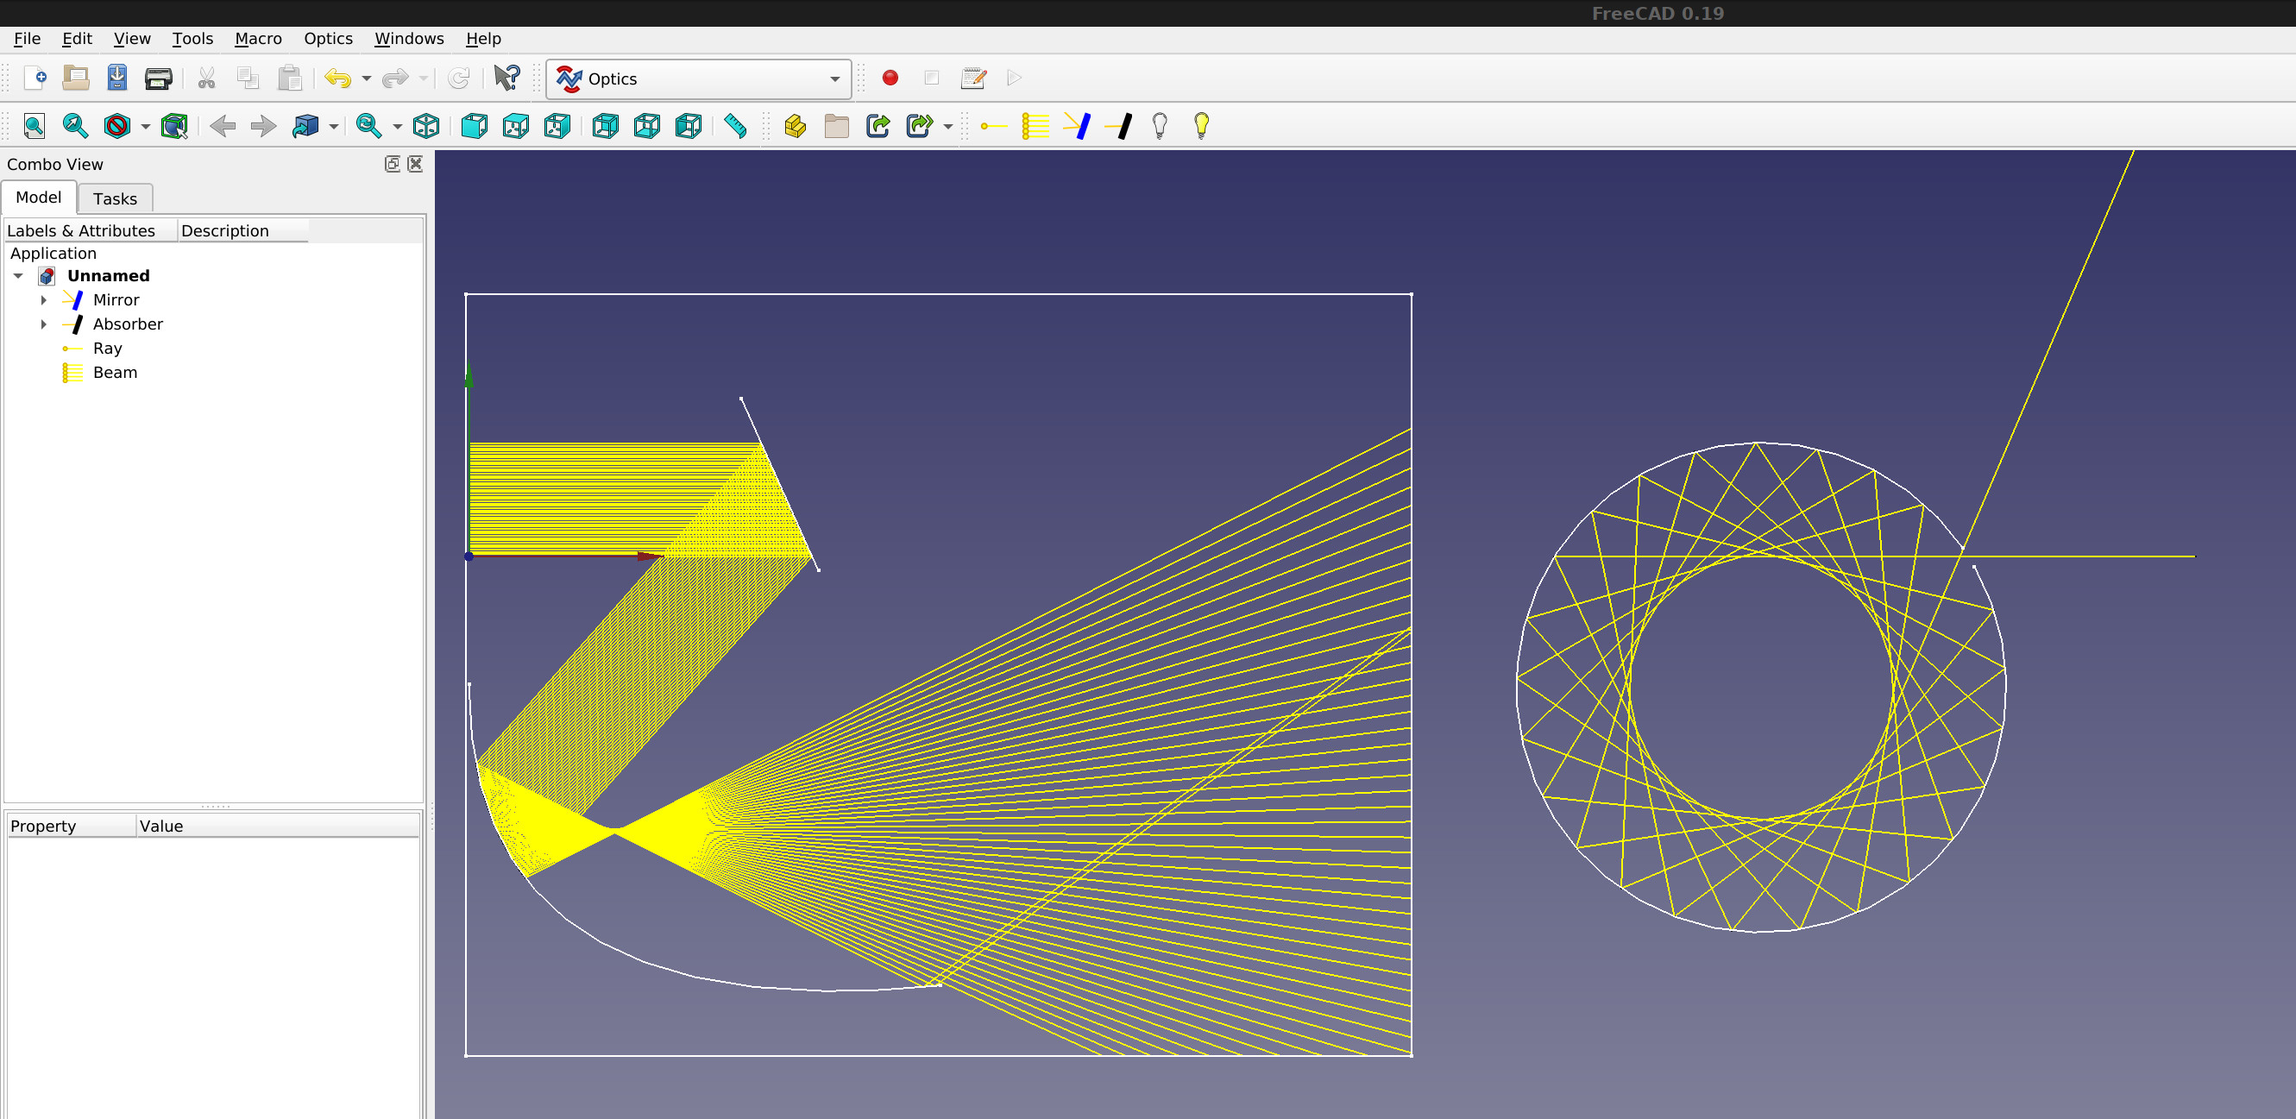
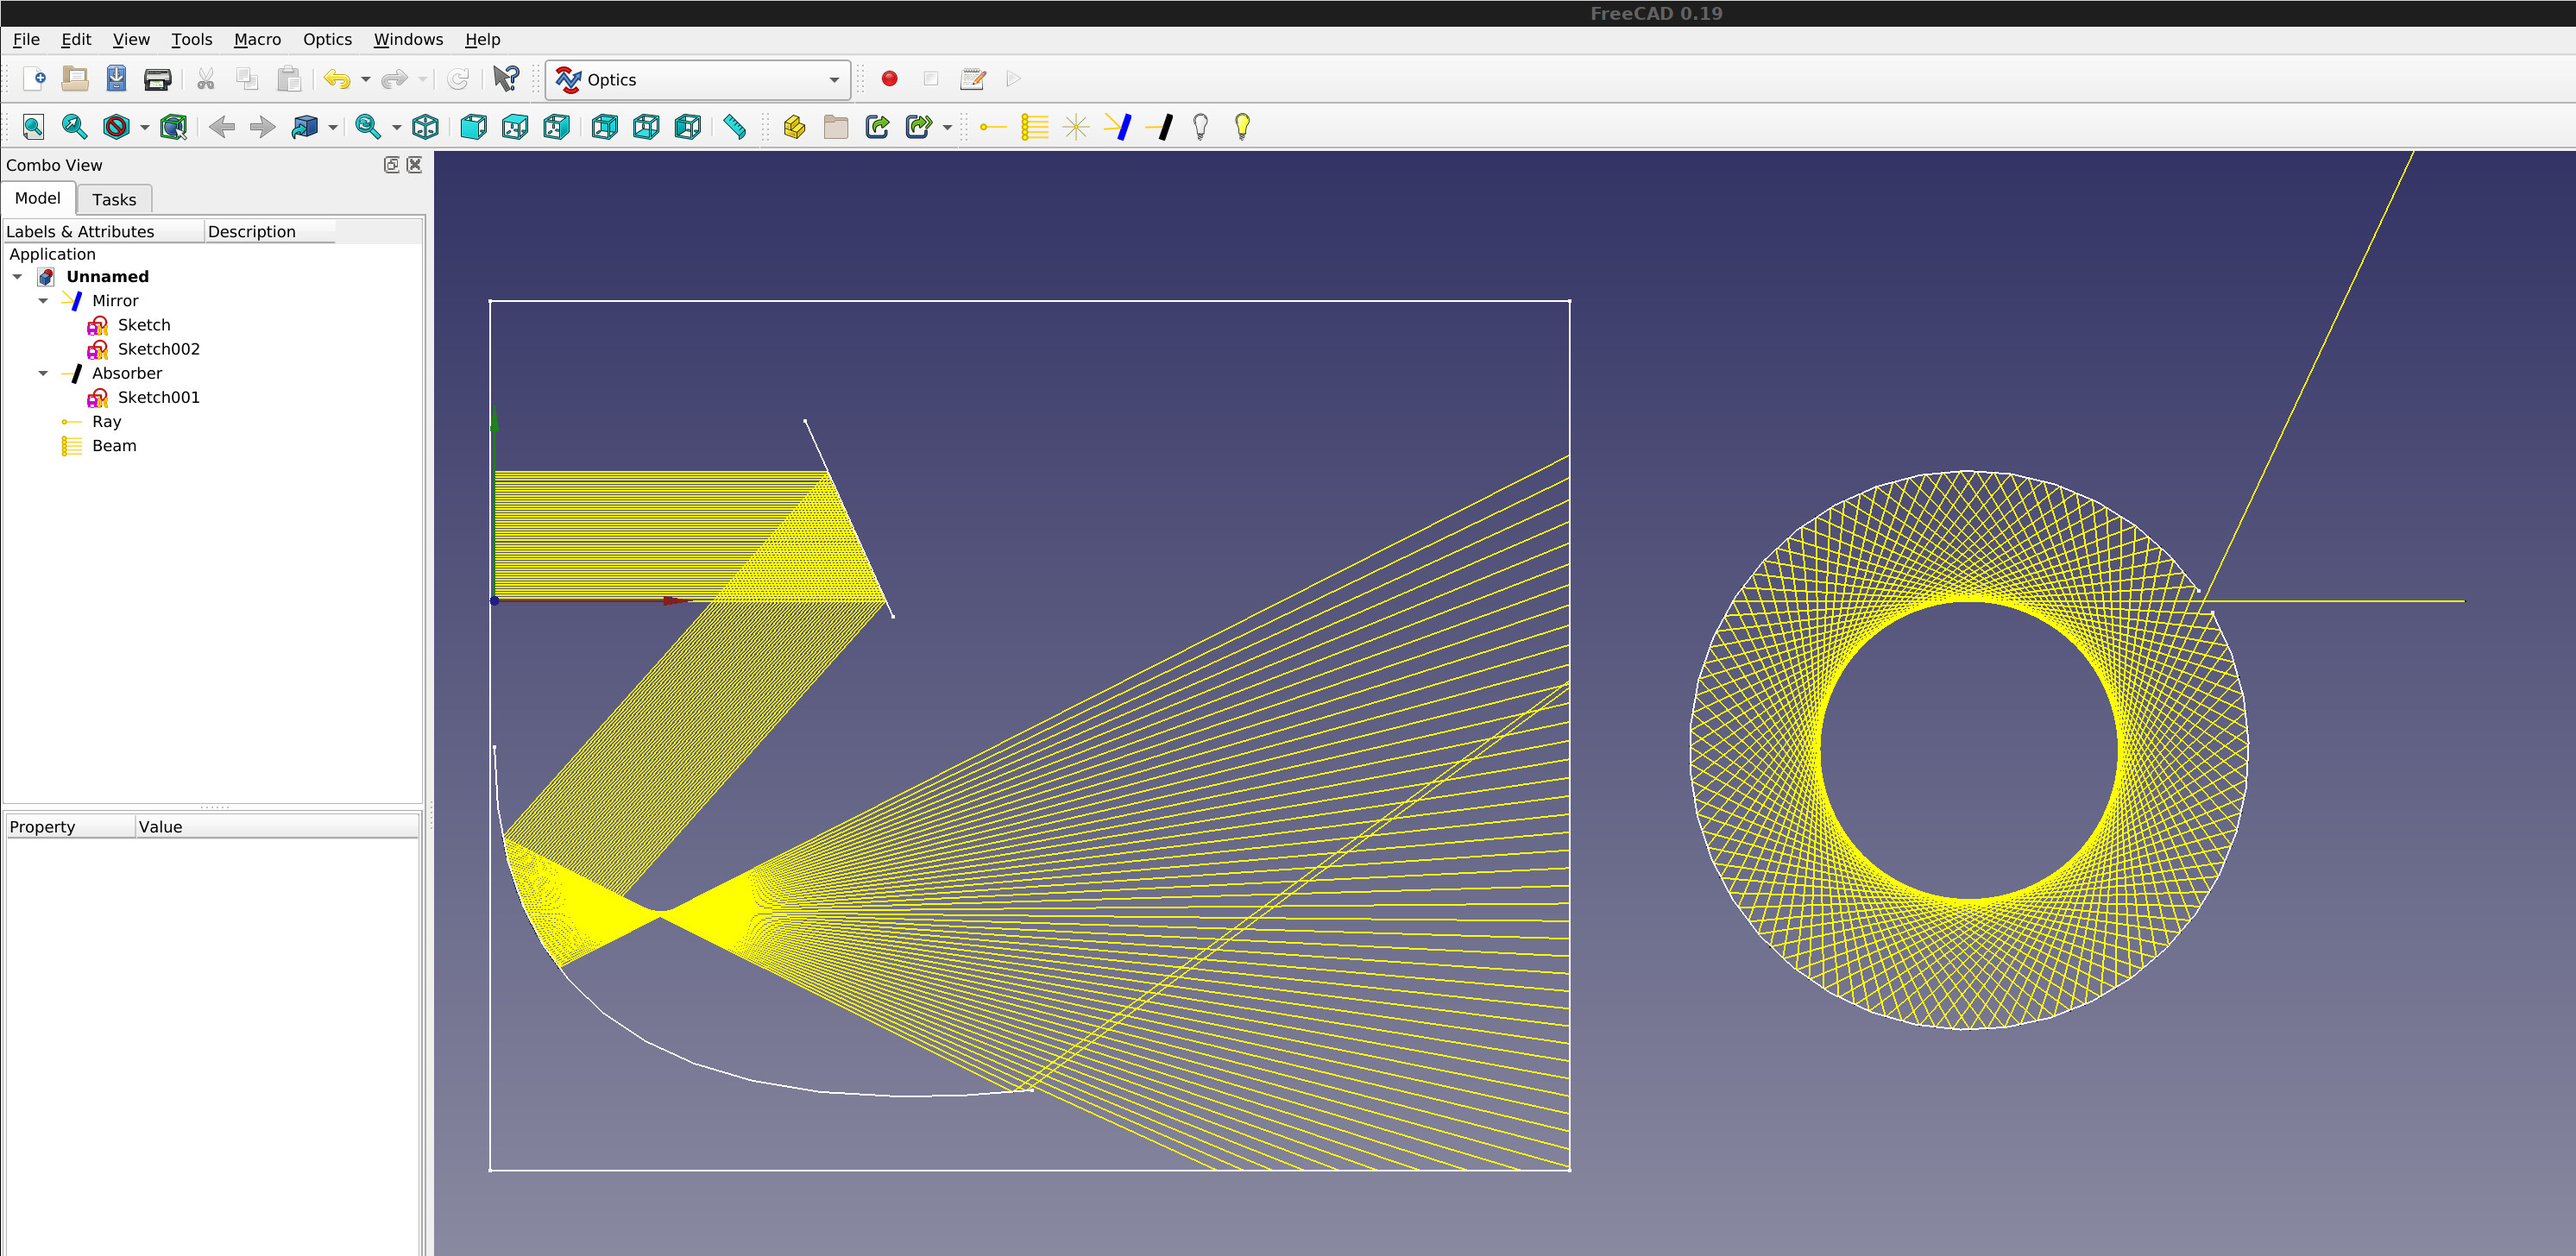
fixed accuracy problem

diff --git a/Ray.py b/Ray.py
@@ -158,13 +158,15 @@ class RayWorker:
                 self.iter = self.iter + 1
                 if self.iter > fp.MaxNumberRays: return
                 
-                if hasattr(nearest_part, 'Curve'):
-                    tangent = self.findTangent(nearest_part, neworigin)
+                if hasattr(nearest_part, 'Curve'):                    
+                    param = nearest_part.Curve.parameter(neworigin)     
+                    tangent = nearest_part.tangentAt(param)
                     newedge = shortline.mirror(neworigin, tangent)
                     vend = PointVec(newedge.Vertexes[0])
                     newline = Part.makeLine(neworigin, vend + (vend - neworigin) * INFINITY)
-                else:
-                    normal = self.findNormal(nearest_part, neworigin)
+                else:                    
+                    uv = nearest_part.Surface.parameter(neworigin)         
+                    normal = nearest_part.normalAt(uv[0], uv[1]) 
                     dB = PointVec(shortline.Vertexes[0]) - neworigin
                     dA = -dB + 2*normal*(dB*normal)
                     newline = Part.makeLine(neworigin, neworigin + dA * INFINITY)
@@ -174,42 +176,8 @@ class RayWorker:
                     self.traceRay(fp, neworigin, linearray)
                 except Exception as ex:
                     print(ex)
-            
         
-    def findTangent(self, shape, point):
-        if shape.Curve.TypeId == 'Part::GeomLine':
-            return PointVec(shape.Vertexes[1]) - PointVec(shape.Vertexes[0])
-        
-        inc = (shape.LastParameter - shape.FirstParameter) / 10000
-        if inc == 0: return
-        nearest = shape.FirstParameter
-        minlen = INFINITY
-        p = shape.FirstParameter
-        while p <= shape.LastParameter:
-            v = shape.valueAt(p)
-            if (point - v).Length < minlen:
-                minlen = (point - v).Length
-                nearest = p
-                
-            p = p + inc
-            
-        return shape.tangentAt(nearest)
-    
-    def findNormal(self, shape, point):   
-        if shape.Surface.TypeId == 'Part::GeomPlane':
-            return shape.normalAt(0,0)
-                
-        uvnodes = shape.getUVNodes()
-        nearest = uvnodes[0]
-        minlen = INFINITY
-        for uv in uvnodes:
-            v = shape.valueAt(uv[0], uv[1])   
-            if (point - v).Length < minlen:
-                minlen = (point - v).Length
-                nearest = uv
-        
-        print("error=" + str((point - shape.valueAt(nearest[0], nearest[1])).Length))     
-        return shape.normalAt(nearest[0], nearest[1])      
+             
 
     def check2D(self, objlist):
         nvec = Vector(1, 1, 1)

diff --git a/OpticalObject.py b/OpticalObject.py
@@ -8,7 +8,6 @@ __doc__ = "Declare your FreeCAD objects to be optical mirrors, lenses or absorbe
 import os
 import FreeCADGui
 import FreeCAD
-import Part
 
 _icondir_ = os.path.join(os.path.dirname(__file__), 'icons')
     

diff --git a/examples/example3D.py b/examples/example3D.py
@@ -1,6 +1,4 @@
 from FreeCAD import Vector, Placement, Rotation
-import Sketcher
-import Part
 import FreeCAD as App
 import FreeCADGui as Gui
 import OpticsWorkbench

diff --git a/examples/example1.py b/examples/example1.py
@@ -1,4 +1,4 @@
-from FreeCAD import Vector, Placement, Rotation
+from FreeCAD import Vector
 import Sketcher
 import Part
 import FreeCAD as App

diff --git a/README.md b/README.md
@@ -9,8 +9,6 @@ Performs simple raytracing through your FreeCAD objects.
 ![screenshot](./examples/screenshot.jpg)
 
 ## Work in progress !
-- The current version works for 2D objects
-- Reflections on curved 3D objects are calculated, but they are inaccurate !
 - Lenses are not yet implemented
   
 ## Installation
@@ -47,6 +45,9 @@ Switches on and recalculates all Rays and Beams
 
 ### ![Example](./icons/pyrate_logo_icon.svg) Example 1
 generates the screenshot above
+
+### ![Example](./icons/pyrate_logo_icon.svg) Example 3D
+![screenshot](./examples/screenshot3D.png)
 
 ## Discussion
 Please offer feedback or connect with the developer via the [dedicated FreeCAD forum thread](https://forum.freecadweb.org/viewtopic.php?f=8&t=59860).
